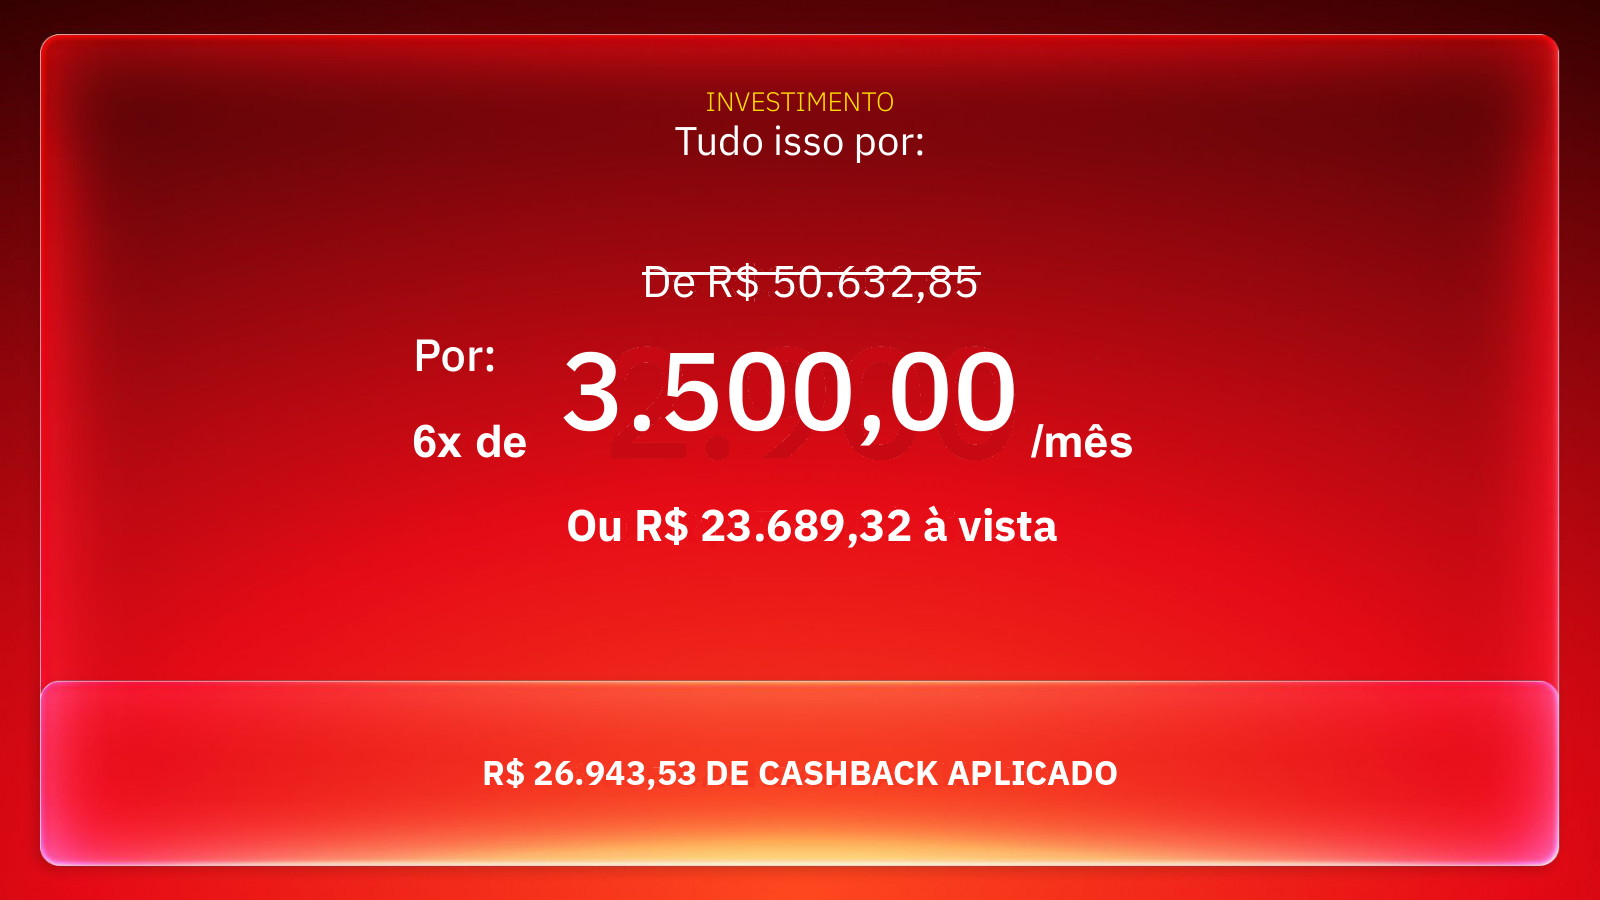
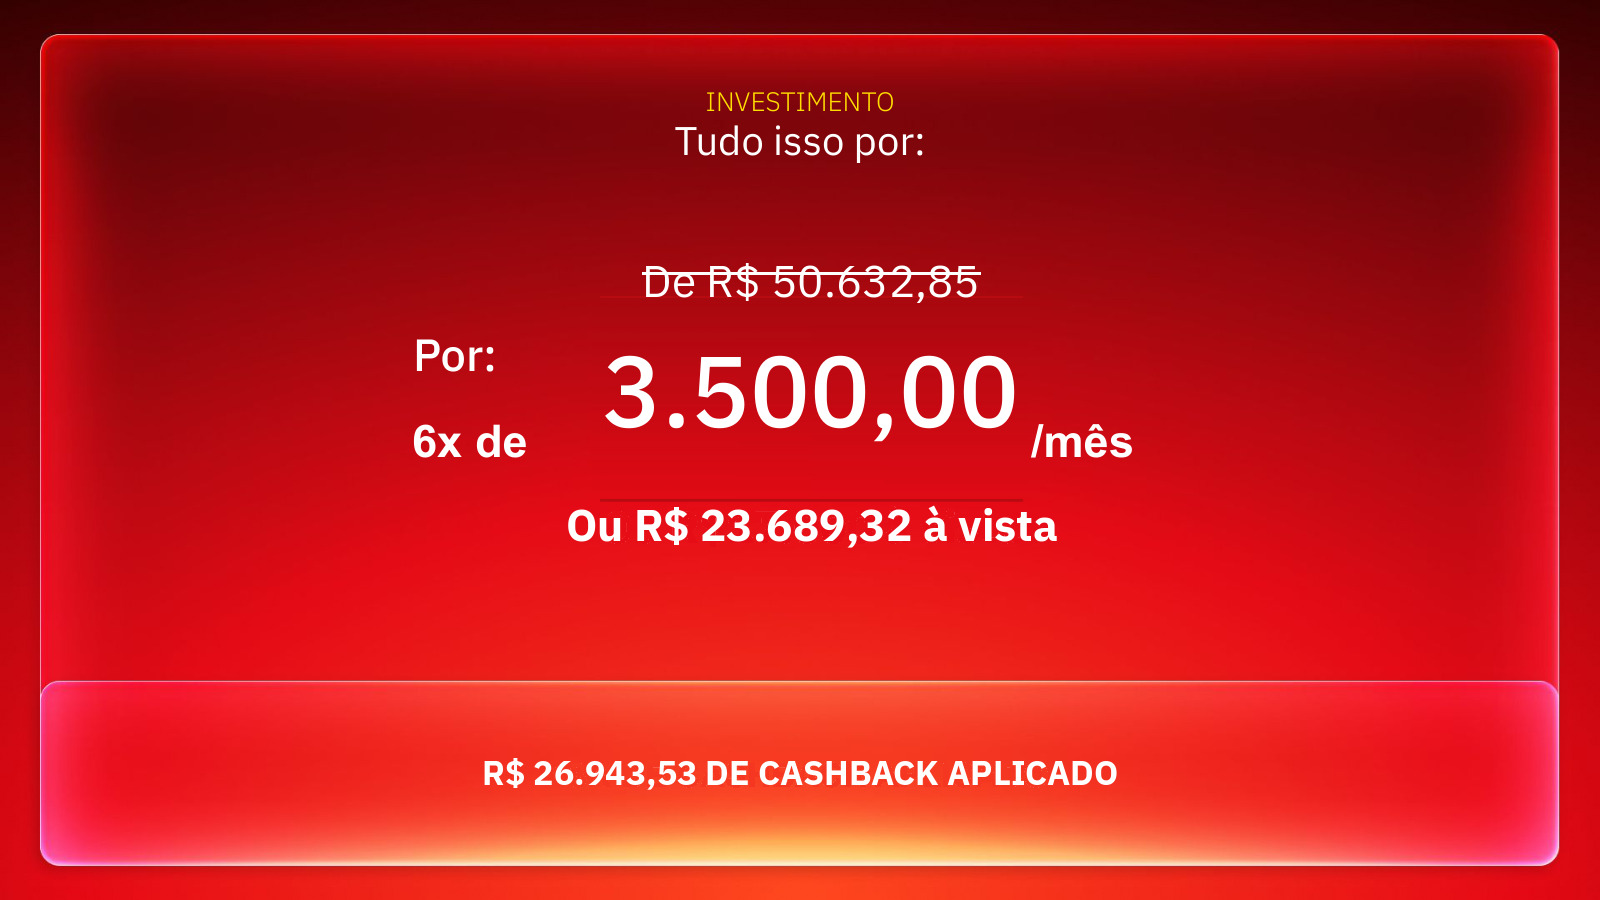
Remove leftover 2.900 behind the 6x R$ 3.500,00 price
Cover the original PDF number on the investment slide so only 3.500,00 shows.

diff --git a/proposta-wmm-3500/index.html b/proposta-wmm-3500/index.html
@@ -4,7 +4,7 @@
   <meta charset="utf-8">
   <meta name="viewport" content="width=device-width, initial-scale=1">
   <meta http-equiv="Cache-Control" content="no-cache, no-store, must-revalidate">
-  <meta name="eqv-deck-version" content="pdf-wmm-3500-20260818">
+  <meta name="eqv-deck-version" content="pdf-wmm-3500-clean">
   <title>WMM SOLUÇÕES EM ENGENHARIA LTDA · Empresa que Vende | V4 Company</title>
   <link rel="preconnect" href="https://fonts.googleapis.com">
   <link rel="preconnect" href="https://fonts.gstatic.com" crossorigin>
@@ -113,7 +113,7 @@
     const BRANCH = "cursor/eqv-proposta-html-3512";
     const REMOTE = "https://raw.githubusercontent.com/sarapizzico-hue/Sara/" + BRANCH + "/proposta-wmm-3500/pages/";
     function pageSrc(n) {
-      const file = "p" + String(n).padStart(2, "0") + ".jpg?v=pdf-wmm-3500-20260818";
+      const file = "p" + String(n).padStart(2, "0") + ".jpg?v=pdf-wmm-3500-clean";
       const host = location.hostname;
       if (host === "htmlpreview.github.io" || host === "htmlpreview.net") return REMOTE + file;
       const path = location.pathname;
